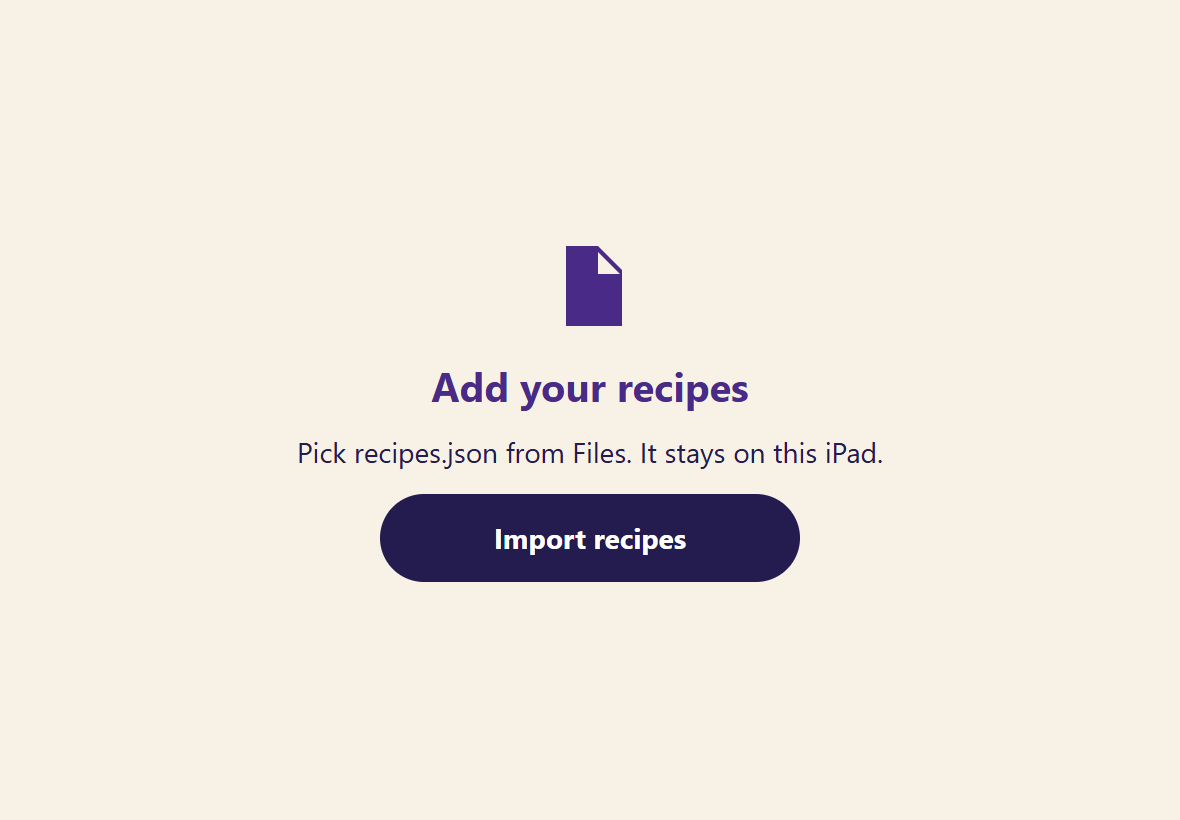
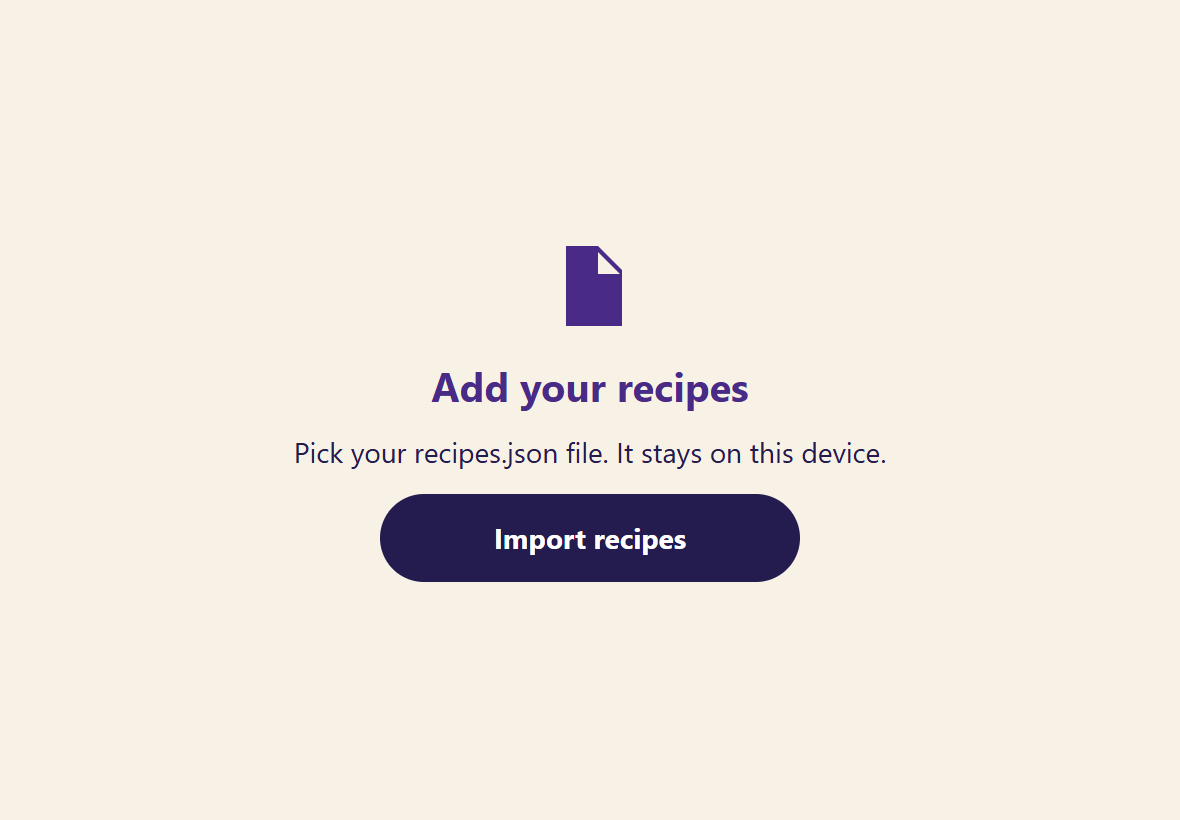
Drop iPad-only wording from the spec, CLAUDE.md and app text
The app works on tablets, phones and computers, so generic "iPad"
mentions now say "device". Import screen reads "Pick your
recipes.json file. It stays on this device." and settings say
recipes are stored only on this device. iPad and iPhone stay named
only where the advice is specific to them (Safari install and the
separate Home Screen storage) and in the iPadOS detection code.

Bumps CACHE_VERSION and APP_VERSION to v3 and refreshes the import
screenshot.

Changed region(s): [[0.2441, 0.5183, 0.7627, 0.5793]]

diff --git a/js/ui/views/import-view.js b/js/ui/views/import-view.js
@@ -19,7 +19,7 @@ export class ImportView {
 	 * @param {object} deps Dependencies.
 	 * @param {import('../../data/recipe-store.js').RecipeStore} deps.recipeStore Recipe store.
 	 * @param {function(): void} deps.onImported Called after a successful import.
-	 * @param {boolean} deps.showInstallHint True in a plain Safari tab on iPad.
+	 * @param {boolean} deps.showInstallHint True in a plain Safari tab on iPad or iPhone.
 	 */
 	constructor(container, deps) {
 		this.#container = container;
@@ -48,7 +48,7 @@ export class ImportView {
 			el('main', { className: 'import-view' }, [
 				el('div', { className: 'import-view__icon' }, [Dom.icon(ICONS.recipe)]),
 				el('h1', { className: 'import-view__title', text: 'Add your recipes' }),
-				el('p', { className: 'import-view__line', text: 'Pick recipes.json from Files. It stays on this iPad.' }),
+				el('p', { className: 'import-view__line', text: 'Pick your recipes.json file. It stays on this device.' }),
 				hint,
 				picker.element,
 			]),

diff --git a/js/ui/views/list-view.js b/js/ui/views/list-view.js
@@ -140,7 +140,7 @@ export class ListView {
 					el('label', { className: 'theme-picker__label', htmlFor: id, text: o.label }),
 				]);
 			})),
-			el('p', { className: 'theme-picker__hint', text: 'Auto follows the iPad’s light or dark setting.' }),
+			el('p', { className: 'theme-picker__hint', text: 'Auto follows the device’s light or dark setting.' }),
 		]);
 	}
 
@@ -210,7 +210,7 @@ export class ListView {
 			confirmBox,
 			el('p', {
 				className: 'settings__note',
-				text: 'Recipes are stored only on this iPad. Deleting the app from the Home Screen '
+				text: 'Recipes are stored only on this device. Uninstalling the app '
 					+ 'erases them, so keep recipes.json somewhere safe.',
 			}),
 		]);

diff --git a/js/data/theme-store.js b/js/data/theme-store.js
@@ -5,7 +5,7 @@
 
 const STORAGE_KEY = 'marinade-cook:theme';
 
-/** Allowed theme choices. Auto follows the iPad's light or dark setting. */
+/** Allowed theme choices. Auto follows the device's light or dark setting. */
 export const THEME_MODES = Object.freeze(['auto', 'light', 'dark']);
 
 /**

diff --git a/js/ui/theme.js b/js/ui/theme.js
@@ -25,7 +25,7 @@ export class Theme {
 	}
 
 	/**
-	 * Applies a choice. 'auto' removes the override so CSS follows the iPad.
+	 * Applies a choice. 'auto' removes the override so CSS follows the device.
 	 * @param {string} mode 'auto', 'light' or 'dark'.
 	 * @returns {void}
 	 */

diff --git a/sw.js b/sw.js
@@ -5,7 +5,7 @@
  * recipe data, which lives only in local storage after import.
  */
 
-const CACHE_VERSION = 'marinade-cook-v2';
+const CACHE_VERSION = 'marinade-cook-v3';
 
 /** Every file the app needs, relative so it works under the GitHub Pages subpath. */
 const APP_SHELL = [

diff --git a/css/style.css b/css/style.css
@@ -88,7 +88,7 @@
 }
 
 /*
- * Dark roles. Auto follows the iPad through the media query; the settings
+ * Dark roles. Auto follows the device through the media query; the settings
  * panel can force a theme with data-theme on <html>. Keep both dark blocks
  * identical.
  */

diff --git a/js/ui/file-picker.js b/js/ui/file-picker.js
@@ -1,6 +1,6 @@
 /**
  * file-picker.js
- * A big button that opens the Files picker and imports the chosen file, with
+ * A big button that opens the file picker and imports the chosen file, with
  * inline errors. Used by the first-run screen and the settings panel.
  */
 

diff --git a/js/platform/wake-lock.js b/js/platform/wake-lock.js
@@ -1,7 +1,7 @@
 /**
  * wake-lock.js
  * Keeps the screen on while a recipe page is open, where the browser allows it.
- * Fails silently: older iPads simply dim as usual.
+ * Fails silently: older devices simply dim as usual.
  */
 
 /**

diff --git a/js/app-version.js b/js/app-version.js
@@ -5,4 +5,4 @@
  */
 
 /** App version number, matching marinade-cook-vN in sw.js. */
-export const APP_VERSION = 2;
+export const APP_VERSION = 3;

diff --git a/docs/spec.md b/docs/spec.md
@@ -4,7 +4,7 @@ This is the detailed spec. `CLAUDE.md` holds the summary and the hard rules.
 
 ## 1. What this is
 
-An iPad sits on the kitchen bench and works like a cookbook:
+A tablet (or phone, or computer) sits on the kitchen bench and works like a cookbook:
 
 1. A main page lists all recipes.
 2. Tapping a recipe opens its page. The user can type the number of units to make, **or** the amount on hand of any ingredient (for example "only 1200 g of oil"), and every other quantity rescales.
@@ -15,14 +15,14 @@ An iPad sits on the kitchen bench and works like a cookbook:
 | Topic | Decision | Why |
 |---|---|---|
 | Layout | **Split view.** The scaling list is on the left and the current cook-mode ingredient is on the right, both on one screen. | The full recipe stays visible while pouring. |
-| Delivery | **Offline Progressive Web App**, installed to the iPad Home Screen | It must work with no wifi or data. |
+| Delivery | **Offline Progressive Web App**, installed to the device's Home Screen or app list | It must work with no wifi or data. |
 | Hosting | **GitHub Pages** from this public repo | It's free, and the code holds no private data. |
 | Stack | Plain HTML, CSS, and vanilla JS. No framework, build step, or CDN. | It's transparent, works offline, and is easy to audit. |
 
 ## 3. Privacy model
 
-- The repo contains **only the app**. The real data is `recipes.json`, which the owner keeps on their own devices and moves to the iPad directly (for example by AirDrop).
-- The user taps **Import recipes**. Data is stored **only in local browser storage on that iPad**. Nothing is sent anywhere.
+- The repo contains **only the app**. The real data is `recipes.json`, which the owner keeps on their own devices and moves to the device directly (for example by AirDrop or a USB cable).
+- The user taps **Import recipes**. Data is stored **only in local browser storage on that device**. Nothing is sent anywhere.
 - The README explains that public code and private data are kept apart on purpose.
 - A strict CSP meta tag: `default-src 'self'; script-src 'self'; style-src 'self'; img-src 'self' data:; connect-src 'self'; object-src 'none'; base-uri 'none'`. No inline scripts or inline styles.
 - A failed import shows a clear error and keeps the existing data.
@@ -33,7 +33,7 @@ There's one page with three views. Use hash routes (`#/`, `#/r/<id>`) so the bac
 
 ### 4.1 First run: import
 Shown when no recipes are stored.
-- An icon, the heading "Add your recipes", and the line "Pick recipes.json from Files. It stays on this iPad."
+- An icon, the heading "Add your recipes", and the line "Pick your recipes.json file. It stays on this device."
 - One large **Import recipes** button, a styled `<input type="file">`.
 - If the import succeeds, go to the list. If it fails, show the error inline.
 - In a plain Safari tab (not installed), show "Add to Home Screen first, then import" (see section 8).
@@ -158,15 +158,15 @@ See the architecture in `CLAUDE.md`. Add `icons/` (icon-192.png, icon-512.png, a
   - Inputs: white background, 2 px `--color-charcoal` border, a `--color-purple` border on focus.
   - Done rows: strikethrough in `--color-charcoal`. Current row: `--color-orange` background with ink text.
   - Dark mode: `--color-ink` page background, butter-yellow text, purple surfaces, and the main button in butter with ink text. Check every text and background pair against WCAG AA (at least 4.5:1).
-- **Theme setting** in the settings panel: **Auto** (follows the iPad's light or dark setting), **Light**, or **Dark**. The default is Auto. The choice is saved locally on the iPad and applies straight away. Light and Dark use the same palette tokens as above; Dark forces the dark-mode token set even when the iPad is in light mode, and Light the reverse.
+- **Theme setting** in the settings panel: **Auto** (follows the device's light or dark setting), **Light**, or **Dark**. The default is Auto. The choice is saved locally on the device and applies straight away. Light and Dark use the same palette tokens as above; Dark forces the dark-mode token set even when the device is in light mode, and Light the reverse.
 - UI text is in English.
 
 ## 10. Deployment (for the README)
 
 1. **Settings → Pages →** "Deploy from a branch", `main`, `/ (root)`.
-2. On the iPad, open `https://<username>.github.io/marinade-cook/` in Safari.
-3. Share → **Add to Home Screen**.
-4. Open it **from the Home Screen icon** and import `recipes.json` from Files.
+2. On the device, open `https://<username>.github.io/marinade-cook/` in the browser.
+3. Install it: Share → **Add to Home Screen** on iPad or iPhone (Safari), **Install app** on Android (Chrome), or the install icon in the address bar on a computer (Chrome or Edge).
+4. Open the installed app and import `recipes.json`. On iPad and iPhone, import from the Home Screen icon, not a Safari tab.
 5. Test in airplane mode.
 
 ## 11. Acceptance checklist
@@ -180,7 +180,7 @@ See the architecture in `CLAUDE.md`. Add `icons/` (icon-192.png, icon-512.png, a
 - [ ] Batch complete and Reset batch work. Progress survives reopening the app.
 - [ ] Works offline after the first load.
 - [ ] Wake lock works where supported.
-- [ ] Landscape is split, and portrait is stacked. No overflow on 10.2" to 13" iPads.
+- [ ] Landscape is split, and portrait is stacked. No overflow on phones, 10" to 13" tablets or desktop windows.
 - [ ] No `innerHTML` with imported data, and no CSP console errors.
 - [ ] `node --test` passes.
 

diff --git a/README.md b/README.md
@@ -1,6 +1,6 @@
 # Marinade Cook
 
-An offline web app for scaling and cooking bulk marinade batches. It works on a tablet, phone or computer, and was designed first for an iPad in the kitchen. It has a recipe list, a split-view recipe page (live scaling on one side, step-by-step cook mode on the other), and recipes imported from a private JSON file that never leaves the device.
+An offline web app for scaling and cooking bulk marinade batches. It works on a tablet, phone or computer. It has a recipe list, a split-view recipe page (live scaling on one side, step-by-step cook mode on the other), and recipes imported from a private JSON file that never leaves the device.
 
 The full product spec is in [docs/spec.md](docs/spec.md).
 

diff --git a/.claude/skills/release/SKILL.md b/.claude/skills/release/SKILL.md
@@ -22,7 +22,7 @@ Run these in order, and stop and report if any step fails.
    grep -rnE 'https?://' index.html js/ css/ sw.js | grep -v localhost && echo "Check: no external requests allowed"
    grep -rn '—' . --include='*.js' --include='*.css' --include='*.html' --include='*.md' && echo "Remove em dashes"
    ```
-6. **Manual check list for the pull request.** Add this to the PR description, so the owner can tick it off on the iPad:
+6. **Manual check list for the pull request.** Add this to the PR description, so the owner can tick it off on a device:
    - Opens offline (airplane mode)
    - Units and ingredient scaling correct on one recipe
    - Cook mode through a full recipe, then reset
